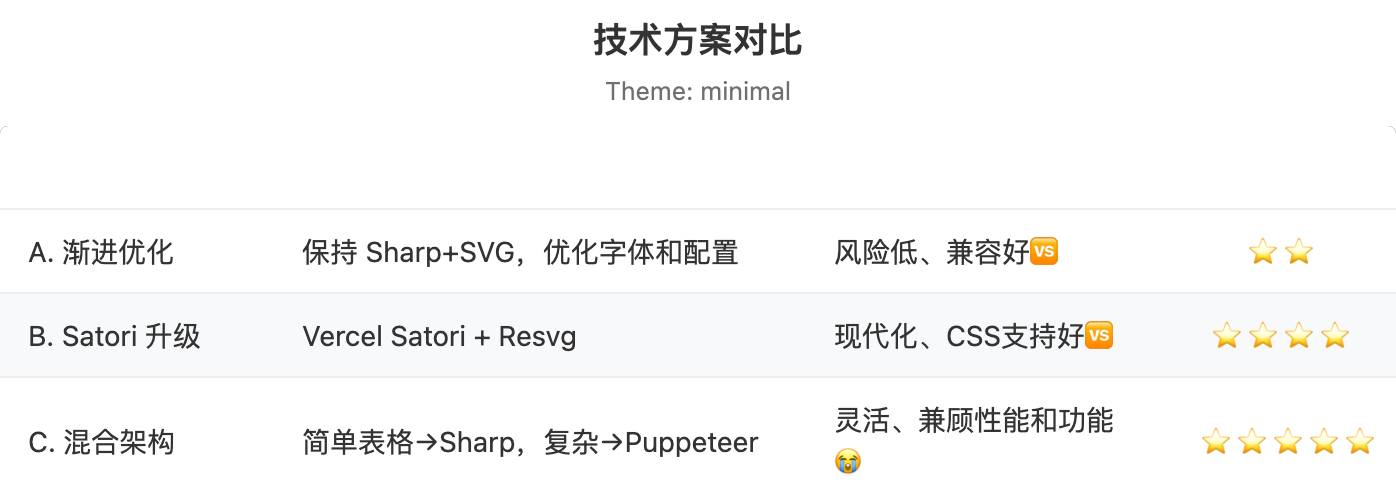
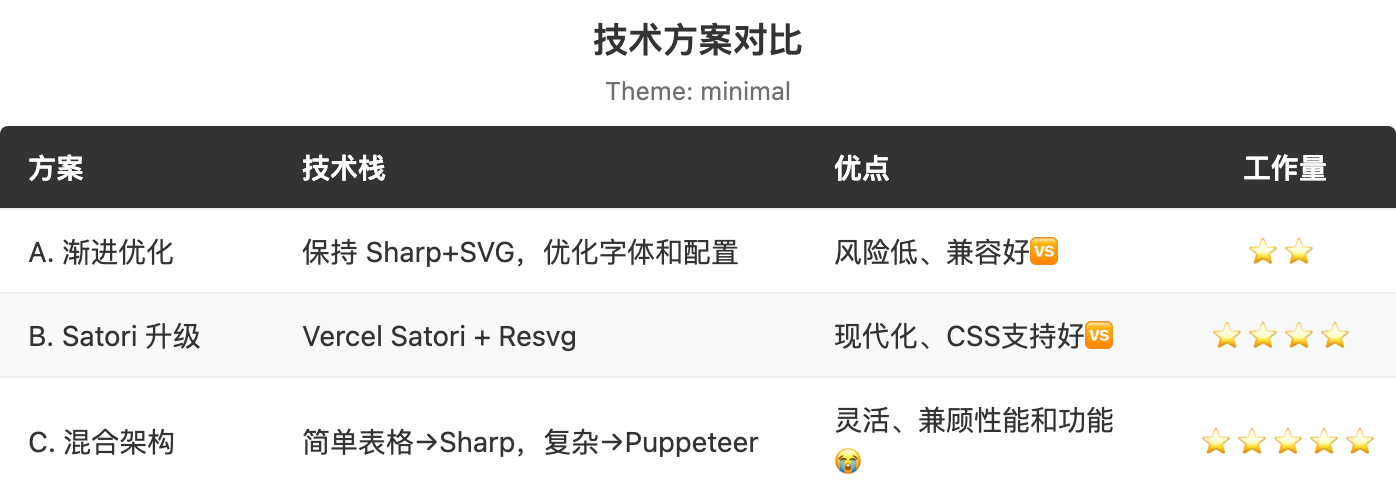
fix: restrict zebra striping to tbody to prevent header color override in light themes and regenerate preview images

Changed region(s): [[0.0, 0.2381, 1.0, 0.4167]]

diff --git a/scripts/index.js b/scripts/index.js
@@ -240,10 +240,10 @@ function generateTableHTML(data, columns, theme, options = {}) {
       padding: ${padding.y}px ${padding.x}px;
       border-top: 1px solid ${themeColors.border};
     }
-    tr:nth-child(even) {
+    tbody tr:nth-child(even) {
       background: ${stripe ? themeColors.rowAltBg : themeColors.rowBg};
     }
-    tr:nth-child(odd) {
+    tbody tr:nth-child(odd) {
       background: ${themeColors.rowBg};
     }
     .text-right {
